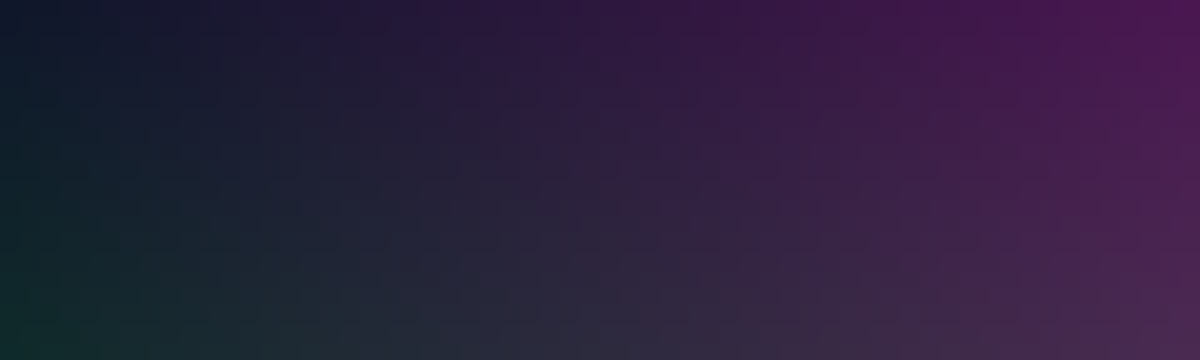
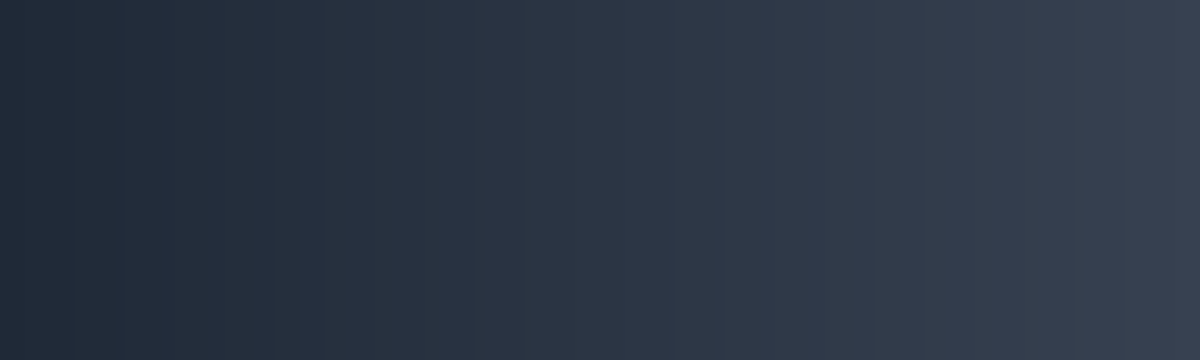
Align palette with upstream Tailwind theme

diff --git a/style.css b/style.css
@@ -1,1 +1,1 @@
-@font-face{font-family:Tailwind Theme Inter;src:url(assets/inter-latin-regular.woff2)format("woff2");font-weight:400;font-style:normal;font-display:swap}:root{color:#1e293b;background:#f8fafc;min-height:100%;font-family:Tailwind Theme Inter,ui-sans-serif,system-ui,sans-serif}[data-jaunder-part=author-handle]{color:#475569}[data-jaunder-part=author-name]{font-weight:600}[data-jaunder-part=avatar]{border-radius:9999px}[data-jaunder-part=continuation]{color:#fff;background:#0369a1;border-color:#0369a1}[data-jaunder-part=continuation]:hover{background:#075985;border-color:#075985}[data-jaunder-part=continuation]:focus-visible{outline-offset:3px;outline:3px solid #0284c7}[data-jaunder-part=header-image]{z-index:0;object-fit:cover;width:100%;height:100%;margin:0;position:absolute;inset:0}[data-jaunder-part=hero]{isolation:isolate;background:#334155;border-radius:1rem;min-height:clamp(14rem,30vw,20rem);display:flex;position:relative;overflow:hidden;box-shadow:0 1.5rem 3rem -2rem #0f172a99}[data-jaunder-part=logo]{border-radius:.75rem;width:2.5rem;height:2.5rem}[data-jaunder-part=main],[data-jaunder-part=main] *{font-family:Tailwind Theme Inter,ui-sans-serif,system-ui,sans-serif}[data-jaunder-part=main]{width:min(64rem,100% - 2rem);margin-inline:auto;padding-block:1rem 3rem}[data-jaunder-part=masthead]{z-index:1;width:100%;min-height:inherit;color:#fff;box-shadow:none;background:linear-gradient(#0f172a1a 25%,#0f172aeb);border:0;border-radius:0;align-items:flex-end;margin:0;padding:clamp(1rem,4vw,2.5rem);position:relative}[data-jaunder-part=masthead] *{color:inherit}[data-jaunder-part=masthead] a{background:#0f172ab8;border-color:#ffffffb3}[data-jaunder-part=masthead] :focus-visible{outline-offset:3px;outline:3px solid #0284c7}[data-jaunder-part=navigation-rail],[data-jaunder-part=navigation-rail] *{font-family:Tailwind Theme Inter,ui-sans-serif,system-ui,sans-serif}[data-jaunder-part=navigation-rail]{color:#334155;background:#f8fafc;border-color:#cbd5e1}[data-jaunder-part=navigation-rail] *{color:inherit}[data-jaunder-part=navigation-search]{background:#e2e8f0;border-color:#cbd5e1}[data-jaunder-part=post]{overflow-wrap:anywhere;background:#fff;border:1px solid #cbd5e1;border-radius:.75rem;min-width:0;box-shadow:0 1px 3px #0f172a1a}[data-jaunder-part=post] a{color:#0369a1;text-decoration:none}[data-jaunder-part=post] a:hover{color:#075985}[data-jaunder-part=post] :focus-visible{outline-offset:3px;outline:3px solid #0284c7}[data-jaunder-part=post-body]{line-height:1.75}[data-jaunder-part=post-body] a{text-underline-offset:.15em;text-decoration-line:underline;text-decoration-thickness:.125em}[data-jaunder-part=post-list]{gap:1.5rem;padding-block:1rem;display:grid}[data-jaunder-part=post-summary]{color:#334155}[data-jaunder-part=post-title]{overflow-wrap:anywhere;font-size:1.5rem;font-weight:700;line-height:1.25}[data-jaunder-part=primary-navigation]{width:auto;margin:0;padding:0}[data-jaunder-part=primary-navigation] a{color:#334155;border-radius:.5rem;text-decoration:none}[data-jaunder-part=primary-navigation] a:hover{color:#0f172a;background:#e2e8f0}[data-jaunder-part=primary-navigation] :focus-visible{outline-offset:3px;outline:3px solid #0284c7}[data-jaunder-part=published-time]{color:#475569}[data-jaunder-part=site-brand]{color:#0f172a}[data-jaunder-part=site-title]{letter-spacing:-.025em;font-weight:700}[data-jaunder-part=source-attribution]{color:#475569}[data-jaunder-part=tag]{background:#e0f2fe;border-radius:9999px;padding:.2rem .6rem}[data-jaunder-part=tag-list]{flex-wrap:wrap;gap:.5rem;display:flex}[data-jaunder-part=tag-list] a{color:#0369a1;text-decoration:none}[data-jaunder-part=tag-list] a:hover{color:#075985}[data-jaunder-part=tag-list] :focus-visible{outline-offset:3px;outline:3px solid #0284c7}@media (max-width:44rem){[data-jaunder-part=hero]{border-radius:.75rem;min-height:13rem}[data-jaunder-part=main]{width:min(100% - 1rem,64rem);padding-block:.5rem 2rem}[data-jaunder-part=masthead]{align-items:flex-end;gap:.75rem}}@media (prefers-reduced-motion:reduce){:root{scroll-behavior:auto}[data-jaunder-part=masthead] *,[data-jaunder-part=post] *{transition-duration:.01ms;animation-duration:.01ms;animation-iteration-count:1}}@media (prefers-color-scheme:dark){:root{--ink:#e2e8f0;--line:#475569;--surface-alt:#1e293b;color:#e2e8f0;background:#0f172a}[data-jaunder-part=author-handle]{color:#cbd5e1}[data-jaunder-part=continuation]{color:#0f172a;background:#7dd3fc;border-color:#7dd3fc}[data-jaunder-part=continuation]:hover{background:#bae6fd;border-color:#bae6fd}[data-jaunder-part=continuation]:focus-visible,[data-jaunder-part=masthead] :focus-visible{outline-color:#fbbf24}[data-jaunder-part=navigation-rail]{color:#cbd5e1;background:#0f172a;border-color:#334155}[data-jaunder-part=navigation-search]{background:#1e293b;border-color:#475569}[data-jaunder-part=post]{box-shadow:none;background:#1e293b;border-color:#475569}[data-jaunder-part=post] a{color:#7dd3fc}[data-jaunder-part=post] a:hover{color:#bae6fd}[data-jaunder-part=post] :focus-visible{outline-color:#fbbf24}[data-jaunder-part=post-summary],[data-jaunder-part=primary-navigation] a{color:#cbd5e1}[data-jaunder-part=primary-navigation] a:hover{color:#fff;background:#1e293b}[data-jaunder-part=primary-navigation] :focus-visible{outline-color:#fbbf24}[data-jaunder-part=published-time]{color:#cbd5e1}[data-jaunder-part=site-brand]{color:#f8fafc}[data-jaunder-part=source-attribution]{color:#cbd5e1}[data-jaunder-part=tag]{background:#334155}[data-jaunder-part=tag-list] a{color:#7dd3fc}[data-jaunder-part=tag-list] a:hover{color:#bae6fd}[data-jaunder-part=tag-list] :focus-visible{outline-color:#fbbf24}}
+@font-face{font-family:Tailwind Theme Inter;src:url(assets/inter-latin-regular.woff2)format("woff2");font-weight:400;font-style:normal;font-display:swap}:root{color:#1e293b;background:#f8fafc;min-height:100%;font-family:Tailwind Theme Inter,ui-sans-serif,system-ui,sans-serif}[data-jaunder-part=author-handle]{color:#475569}[data-jaunder-part=author-name]{font-weight:600}[data-jaunder-part=avatar]{border-radius:9999px}[data-jaunder-part=continuation]{color:#334155;background:#e2e8f0;border-color:#cbd5e1}[data-jaunder-part=continuation]:hover{background:#cbd5e1;border-color:#94a3b8}[data-jaunder-part=continuation]:focus-visible{outline-offset:3px;outline:3px solid #3b82f6}[data-jaunder-part=header-image]{z-index:0;object-fit:cover;width:100%;height:100%;margin:0;position:absolute;inset:0}[data-jaunder-part=hero]{isolation:isolate;background:#374151;border-radius:1rem;min-height:clamp(14rem,30vw,20rem);display:flex;position:relative;overflow:hidden;box-shadow:0 1.5rem 3rem -2rem #0f172a99}[data-jaunder-part=logo]{border-radius:.75rem;width:2.5rem;height:2.5rem}[data-jaunder-part=main],[data-jaunder-part=main] *{font-family:Tailwind Theme Inter,ui-sans-serif,system-ui,sans-serif}[data-jaunder-part=main]{width:min(64rem,100% - 2rem);margin-inline:auto;padding-block:1rem 3rem}[data-jaunder-part=masthead]{z-index:1;width:100%;min-height:inherit;color:#fff;box-shadow:none;background:linear-gradient(#0f172a1a 25%,#0f172aeb);border:0;border-radius:0;align-items:flex-end;margin:0;padding:clamp(1rem,4vw,2.5rem);position:relative}[data-jaunder-part=masthead] *{color:inherit}[data-jaunder-part=masthead] a{background:#0f172ab8;border-color:#ffffffb3}[data-jaunder-part=masthead] :focus-visible{outline-offset:3px;outline:3px solid #3b82f6}[data-jaunder-part=navigation-rail],[data-jaunder-part=navigation-rail] *{font-family:Tailwind Theme Inter,ui-sans-serif,system-ui,sans-serif}[data-jaunder-part=navigation-rail]{color:#334155;background:#f8fafc;border-color:#cbd5e1}[data-jaunder-part=navigation-rail] *{color:inherit}[data-jaunder-part=navigation-search]{background:#e2e8f0;border-color:#cbd5e1}[data-jaunder-part=post]{overflow-wrap:anywhere;background:#fff;border:1px solid #cbd5e1;border-radius:.75rem;min-width:0;box-shadow:0 1px 3px #0f172a1a}[data-jaunder-part=post] a{color:#1e293b;text-decoration:none}[data-jaunder-part=post] a:hover{color:#0f172a}[data-jaunder-part=post] :focus-visible{outline-offset:3px;outline:3px solid #3b82f6}[data-jaunder-part=post-body]{line-height:1.75}[data-jaunder-part=post-body] a{text-underline-offset:.15em;text-decoration-line:underline;text-decoration-thickness:.125em}[data-jaunder-part=post-list]{gap:1.5rem;padding-block:1rem;display:grid}[data-jaunder-part=post-summary]{color:#334155}[data-jaunder-part=post-title]{overflow-wrap:anywhere;font-size:1.5rem;font-weight:700;line-height:1.25}[data-jaunder-part=primary-navigation]{width:auto;margin:0;padding:0}[data-jaunder-part=primary-navigation] a{color:#334155;border-radius:.5rem;text-decoration:none}[data-jaunder-part=primary-navigation] a:hover{color:#0f172a;background:#e2e8f0}[data-jaunder-part=primary-navigation] :focus-visible{outline-offset:3px;outline:3px solid #3b82f6}[data-jaunder-part=published-time]{color:#475569}[data-jaunder-part=site-brand]{color:#0f172a}[data-jaunder-part=site-title]{letter-spacing:-.025em;font-weight:700}[data-jaunder-part=source-attribution]{color:#475569}[data-jaunder-part=tag]{background:#e2e8f0;border-radius:9999px;padding:.2rem .6rem}[data-jaunder-part=tag-list]{flex-wrap:wrap;gap:.5rem;display:flex}[data-jaunder-part=tag-list] a{color:#334155;text-decoration:none}[data-jaunder-part=tag-list] a:hover{color:#1e293b}[data-jaunder-part=tag-list] :focus-visible{outline-offset:3px;outline:3px solid #3b82f6}@media (max-width:44rem){[data-jaunder-part=hero]{border-radius:.75rem;min-height:13rem}[data-jaunder-part=main]{width:min(100% - 1rem,64rem);padding-block:.5rem 2rem}[data-jaunder-part=masthead]{align-items:flex-end;gap:.75rem}}@media (prefers-reduced-motion:reduce){:root{scroll-behavior:auto}[data-jaunder-part=masthead] *,[data-jaunder-part=post] *{transition-duration:.01ms;animation-duration:.01ms;animation-iteration-count:1}}@media (prefers-color-scheme:dark){:root{--ink:#e2e8f0;--line:#4b5563;--surface-alt:#374151;color:#e2e8f0;background:#1f2937}[data-jaunder-part=author-handle]{color:#cbd5e1}[data-jaunder-part=continuation]{color:#cbd5e1;background:#374151;border-color:#4b5563}[data-jaunder-part=continuation]:hover{background:#4b5563;border-color:#6b7280}[data-jaunder-part=continuation]:focus-visible,[data-jaunder-part=masthead] :focus-visible{outline-color:#bfdbfe}[data-jaunder-part=navigation-rail]{color:#cbd5e1;background:#1f2937;border-color:#4b5563}[data-jaunder-part=navigation-search]{background:#374151;border-color:#4b5563}[data-jaunder-part=post]{box-shadow:none;background:#374151;border-color:#4b5563}[data-jaunder-part=post] a{color:#e2e8f0}[data-jaunder-part=post] a:hover{color:#fff}[data-jaunder-part=post] :focus-visible{outline-color:#bfdbfe}[data-jaunder-part=post-summary],[data-jaunder-part=primary-navigation] a{color:#cbd5e1}[data-jaunder-part=primary-navigation] a:hover{color:#fff;background:#374151}[data-jaunder-part=primary-navigation] :focus-visible{outline-color:#bfdbfe}[data-jaunder-part=published-time]{color:#cbd5e1}[data-jaunder-part=site-brand]{color:#f8fafc}[data-jaunder-part=source-attribution]{color:#cbd5e1}[data-jaunder-part=tag]{background:#4b5563}[data-jaunder-part=tag-list] a{color:#e2e8f0}[data-jaunder-part=tag-list] a:hover{color:#fff}[data-jaunder-part=tag-list] :focus-visible{outline-color:#bfdbfe}}

diff --git a/src/theme.css b/src/theme.css
@@ -37,18 +37,18 @@
 
 /* continuation */
 [data-jaunder-part="continuation"] {
-  color: #fff;
-  background: #0369a1;
-  border-color: #0369a1;
+  color: #334155;
+  background: #e2e8f0;
+  border-color: #cbd5e1;
 }
 
 [data-jaunder-part="continuation"]:hover {
-  background: #075985;
-  border-color: #075985;
+  background: #cbd5e1;
+  border-color: #94a3b8;
 }
 
 [data-jaunder-part="continuation"]:focus-visible {
-  outline: 3px solid #0284c7;
+  outline: 3px solid #3b82f6;
   outline-offset: 3px;
 }
 
@@ -69,7 +69,7 @@
   display: flex;
   min-height: clamp(14rem, 30vw, 20rem);
   overflow: hidden;
-  background: #334155;
+  background: #374151;
   border-radius: 1rem;
   box-shadow: 0 1.5rem 3rem -2rem rgb(15 23 42 / 60%);
   isolation: isolate;
@@ -124,7 +124,7 @@
 }
 
 [data-jaunder-part="masthead"] :focus-visible {
-  outline: 3px solid #0284c7;
+  outline: 3px solid #3b82f6;
   outline-offset: 3px;
 }
 
@@ -161,16 +161,16 @@
 }
 
 [data-jaunder-part="post"] a {
-  color: #0369a1;
+  color: #1e293b;
   text-decoration: none;
 }
 
 [data-jaunder-part="post"] a:hover {
-  color: #075985;
+  color: #0f172a;
 }
 
 [data-jaunder-part="post"] :focus-visible {
-  outline: 3px solid #0284c7;
+  outline: 3px solid #3b82f6;
   outline-offset: 3px;
 }
 
@@ -224,7 +224,7 @@
 }
 
 [data-jaunder-part="primary-navigation"] :focus-visible {
-  outline: 3px solid #0284c7;
+  outline: 3px solid #3b82f6;
   outline-offset: 3px;
 }
 
@@ -252,7 +252,7 @@
 /* tag */
 [data-jaunder-part="tag"] {
   padding: 0.2rem 0.6rem;
-  background: #e0f2fe;
+  background: #e2e8f0;
   border-radius: 9999px;
 }
 
@@ -264,16 +264,16 @@
 }
 
 [data-jaunder-part="tag-list"] a {
-  color: #0369a1;
+  color: #334155;
   text-decoration: none;
 }
 
 [data-jaunder-part="tag-list"] a:hover {
-  color: #075985;
+  color: #1e293b;
 }
 
 [data-jaunder-part="tag-list"] :focus-visible {
-  outline: 3px solid #0284c7;
+  outline: 3px solid #3b82f6;
   outline-offset: 3px;
 }
 
@@ -323,10 +323,10 @@
      * descendants that have no separate Style Contract hook (for example,
      * active navigation items and sanitized Post-body headings). */
     --ink: #e2e8f0;
-    --line: #475569;
-    --surface-alt: #1e293b;
+    --line: #4b5563;
+    --surface-alt: #374151;
     color: #e2e8f0;
-    background: #0f172a;
+    background: #1f2937;
   }
 
   /* author-handle */
@@ -336,55 +336,55 @@
 
   /* continuation */
   [data-jaunder-part="continuation"] {
-    color: #0f172a;
-    background: #7dd3fc;
-    border-color: #7dd3fc;
+    color: #cbd5e1;
+    background: #374151;
+    border-color: #4b5563;
   }
 
   [data-jaunder-part="continuation"]:hover {
-    background: #bae6fd;
-    border-color: #bae6fd;
+    background: #4b5563;
+    border-color: #6b7280;
   }
 
   [data-jaunder-part="continuation"]:focus-visible {
-    outline-color: #fbbf24;
+    outline-color: #bfdbfe;
   }
 
   /* masthead */
   [data-jaunder-part="masthead"] :focus-visible {
-    outline-color: #fbbf24;
+    outline-color: #bfdbfe;
   }
 
   /* navigation-rail */
   [data-jaunder-part="navigation-rail"] {
     color: #cbd5e1;
-    background: #0f172a;
-    border-color: #334155;
+    background: #1f2937;
+    border-color: #4b5563;
   }
 
   /* navigation-search */
   [data-jaunder-part="navigation-search"] {
-    background: #1e293b;
-    border-color: #475569;
+    background: #374151;
+    border-color: #4b5563;
   }
 
   /* post */
   [data-jaunder-part="post"] {
-    background: #1e293b;
-    border-color: #475569;
+    background: #374151;
+    border-color: #4b5563;
     box-shadow: none;
   }
 
   [data-jaunder-part="post"] a {
-    color: #7dd3fc;
+    color: #e2e8f0;
   }
 
   [data-jaunder-part="post"] a:hover {
-    color: #bae6fd;
+    color: #fff;
   }
 
   [data-jaunder-part="post"] :focus-visible {
-    outline-color: #fbbf24;
+    outline-color: #bfdbfe;
   }
 
   /* post-summary */
@@ -399,11 +399,11 @@
 
   [data-jaunder-part="primary-navigation"] a:hover {
     color: #fff;
-    background: #1e293b;
+    background: #374151;
   }
 
   [data-jaunder-part="primary-navigation"] :focus-visible {
-    outline-color: #fbbf24;
+    outline-color: #bfdbfe;
   }
 
   /* published-time */
@@ -423,19 +423,19 @@
 
   /* tag */
   [data-jaunder-part="tag"] {
-    background: #334155;
+    background: #4b5563;
   }
 
   /* tag-list */
   [data-jaunder-part="tag-list"] a {
-    color: #7dd3fc;
+    color: #e2e8f0;
   }
 
   [data-jaunder-part="tag-list"] a:hover {
-    color: #bae6fd;
+    color: #fff;
   }
 
   [data-jaunder-part="tag-list"] :focus-visible {
-    outline-color: #fbbf24;
+    outline-color: #bfdbfe;
   }
 }

diff --git a/README.md b/README.md
@@ -5,7 +5,7 @@ An independent MIT Jaunder Theme Package inspired by the visual language of
 at `d6841f6c9d53155a3245d6472555860f7acb1cd0`. It is not a Hugo theme, fork, or
 sync-compatible derivative. See [NOTICE](NOTICE) for the preserved upstream MIT
 notice, [ASSET-PROVENANCE.md](ASSET-PROVENANCE.md) for package asset licenses, and
-[initial-port verification](docs/initial-port-verification.json) for immutable final facts.
+[initial-port verification](docs/initial-port-verification.json) for the retained pre-palette verification baseline.
 
 The theme uses only Jaunder Style Contract 1 semantic hooks. Its responsive
 centered shell, slate/gray system-dark palette, cards, prose/code treatment,
@@ -75,6 +75,7 @@ npm ci --ignore-scripts
 node scripts/check-drift.mjs
 node scripts/check-dark-divider-contract.mjs
 node scripts/check-continuation-contract.mjs
+node scripts/check-upstream-palette-contract.mjs
 "$JAUNDER_BIN" theme check .
 "$JAUNDER_BIN" theme thumbnail . --browser "$JAUNDER_THEME_THUMBNAIL_BROWSER" --output preview.png
 ./scripts/generate-dark-preview.sh
@@ -127,17 +128,19 @@ import ZIP → preview the private draft → publish → explicitly select the
 published Theme. Importing does not alter public pages; only explicit selection
 does. Do not use repository support files as import input.
 
-## Final verification
+## Previous verification baseline
 
-The final presentation source is `8831fb7f912948e0b7f60b33f2af1397e1c423f1`.
-Canonical workflow [35618737141](https://github.com/jaunder-org/theme-tailwind/actions/runs/35618737141)
-produced the six-member package SHA-256
[1 lines of base64/hex data omitted]
-Light and dark previews are 1200×800 with SHA-256
+Presentation source `8831fb7f912948e0b7f60b33f2af1397e1c423f1`, canonical workflow
+[35618737141](https://github.com/jaunder-org/theme-tailwind/actions/runs/35618737141),
+package SHA-256
[1 lines of base64/hex data omitted]
+preview SHA-256 values
[2 lines of base64/hex data omitted]
-The complete durable facts, including the Jaunder runtime and selection-regression
-pins and browser outcomes, are in the verification record.
[1 lines of base64/hex data omitted]
+record the completed pre-palette proving-ground pass. They are retained as
+initial-port history, not asserted as current package or release evidence. The
+verification record will be replaced with the palette revision's canonical
+workflow facts before release.
 
 ## Automation
 
